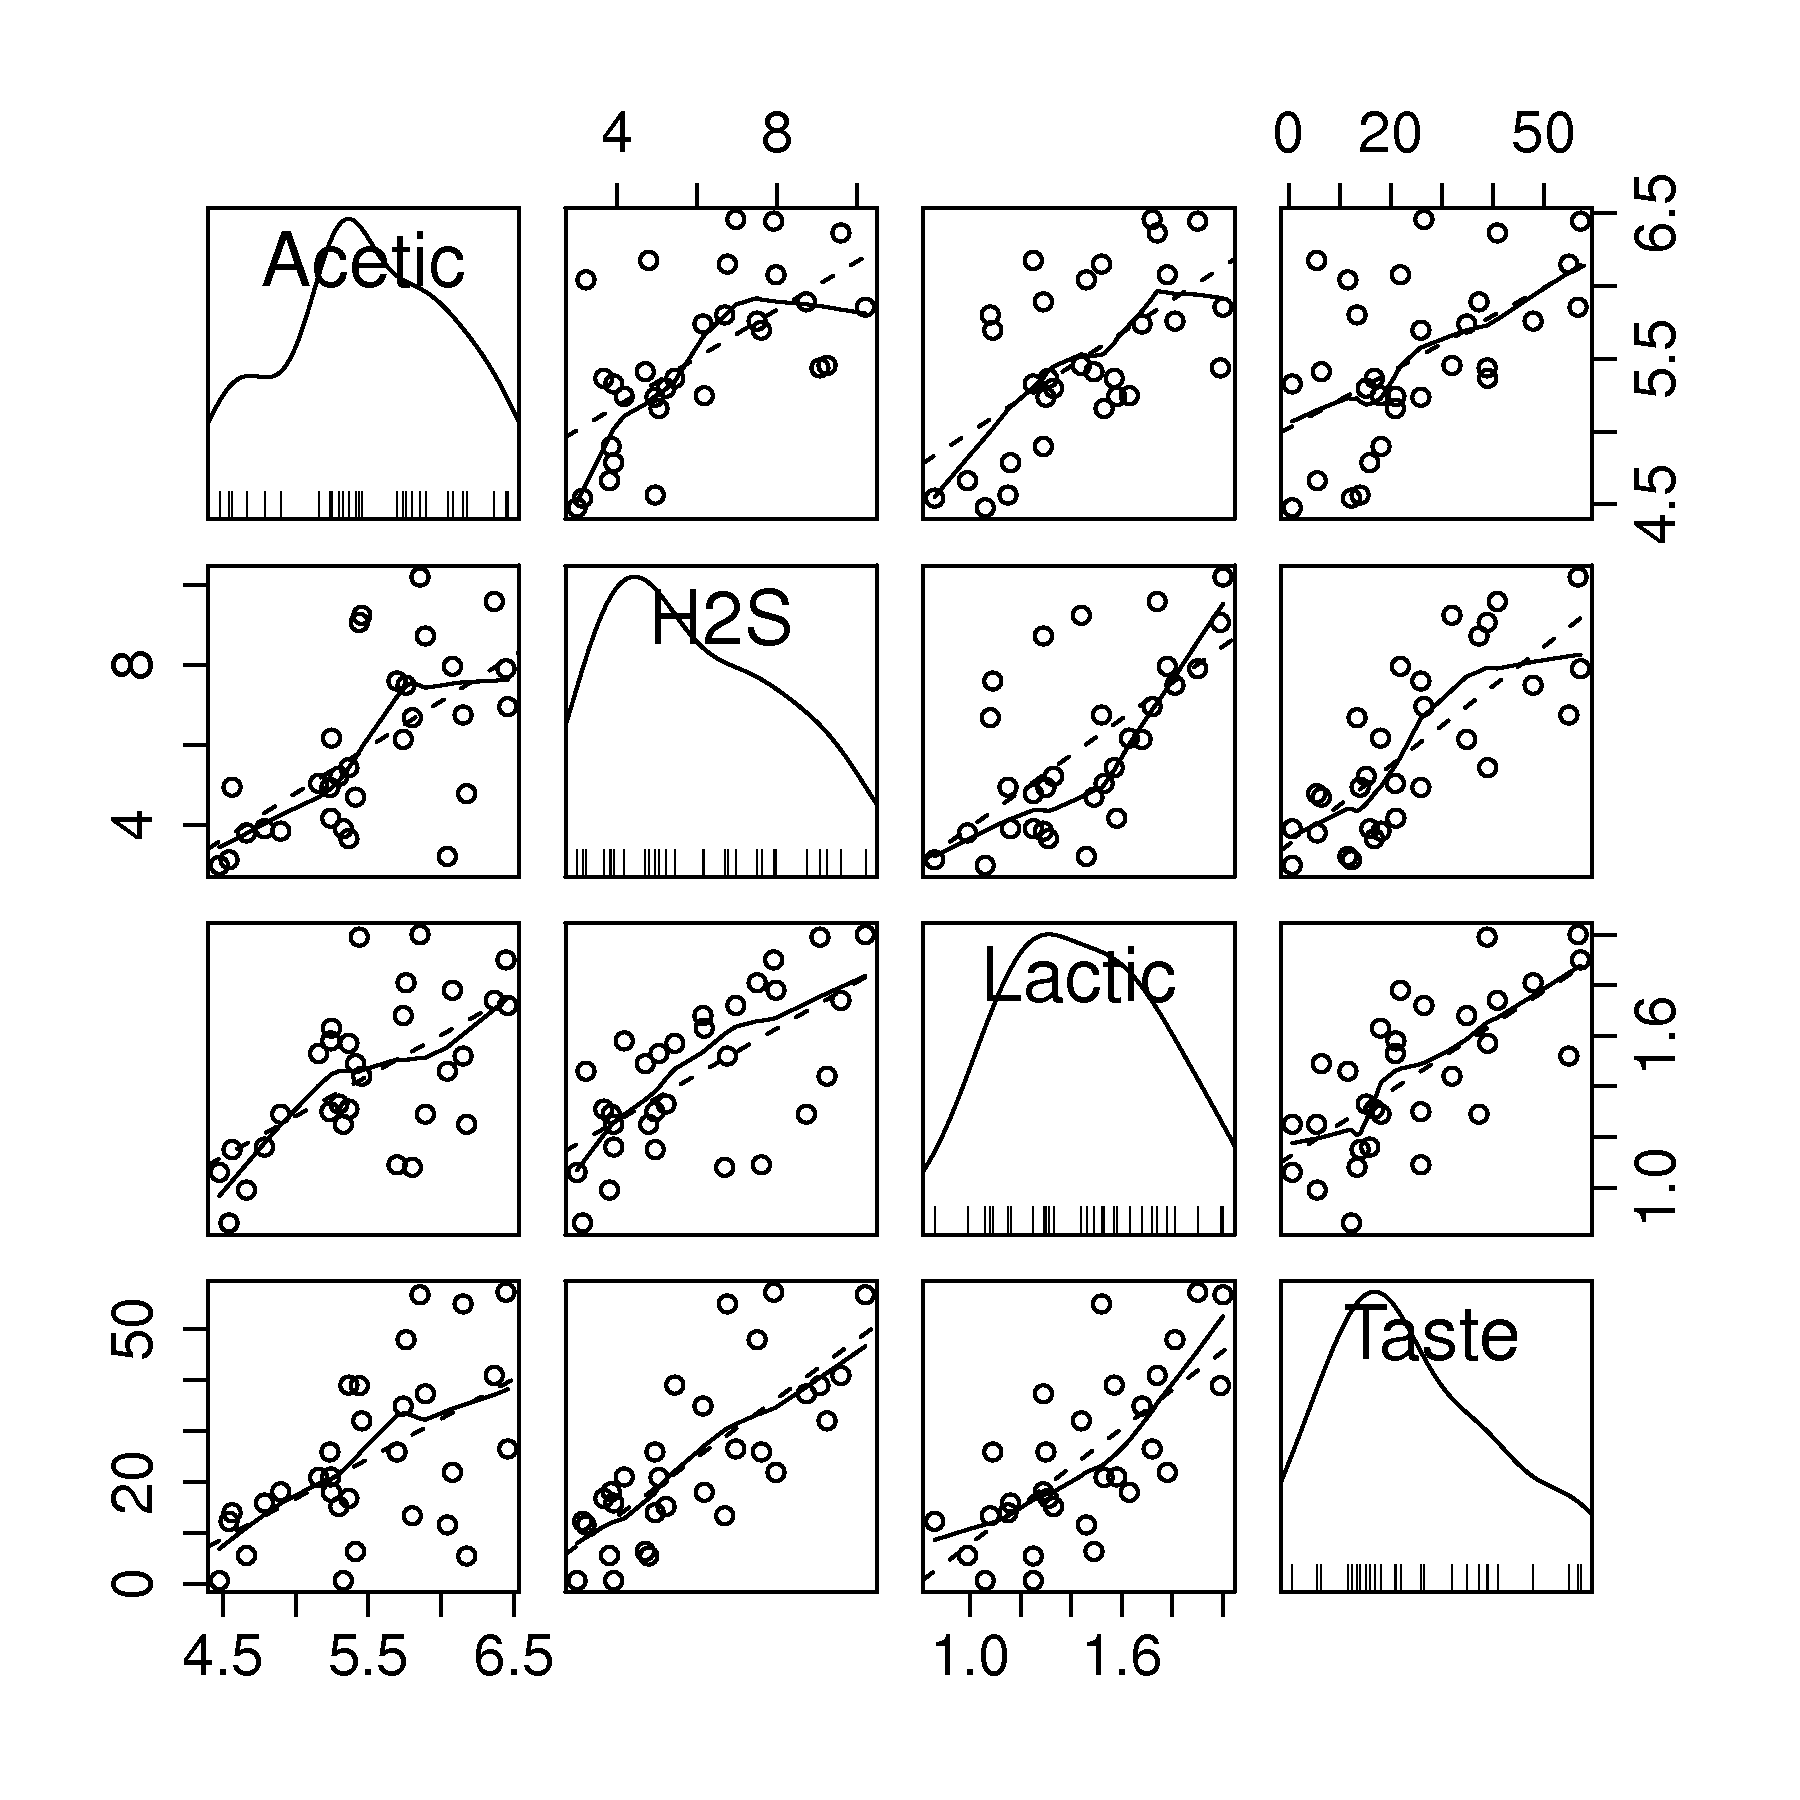
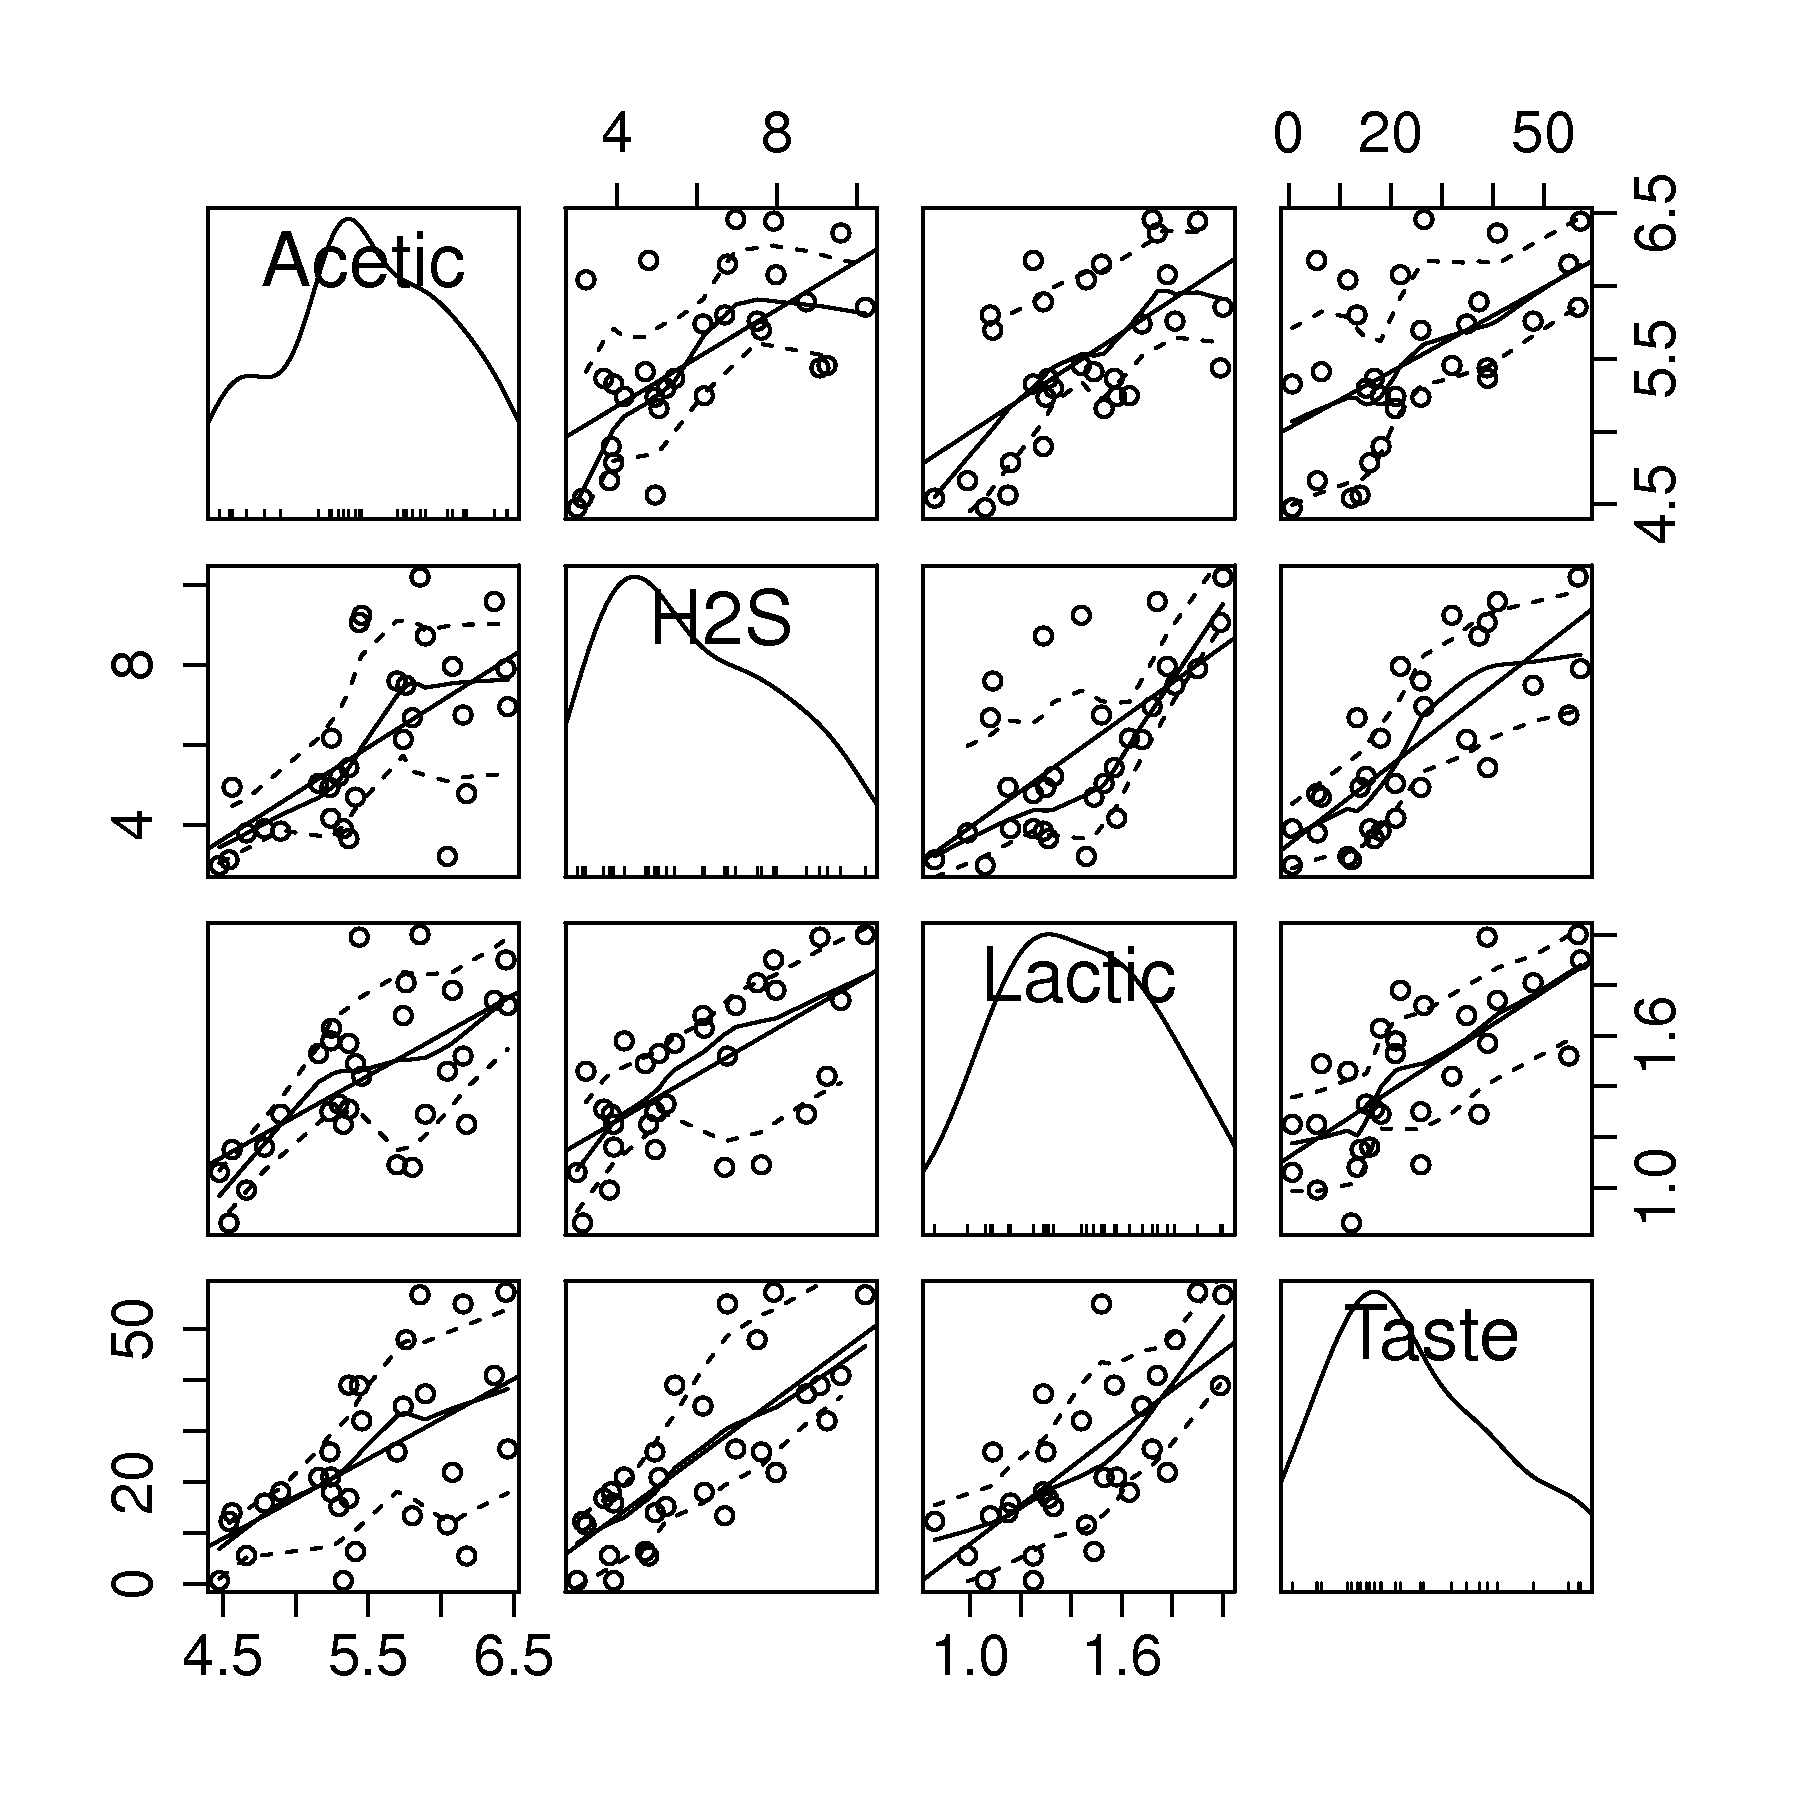
Working on cheese example

Changed region(s): [[0.7467, 0.8711, 0.7778, 0.9022], [0.6222, 0.3733, 0.6533, 0.4044], [0.1556, 0.5911, 0.1867, 0.6222]]

diff --git a/examples/cheese/cheese.m b/examples/cheese/cheese.m
@@ -1,0 +1,8 @@
+cheese_data = csvread('/Users/kevindunn/ConnectMV/Datasets/Cheese/cheddar-cheese.csv', 1, 1);
+
+X = cheese_data(:, 1:3);
+y = cheese_data(:, 4);
+[N, K] = size(X);
+X = X - repmat(mean(X), N, 1);
+
+beta = inv(X'*X) * X'*y;
